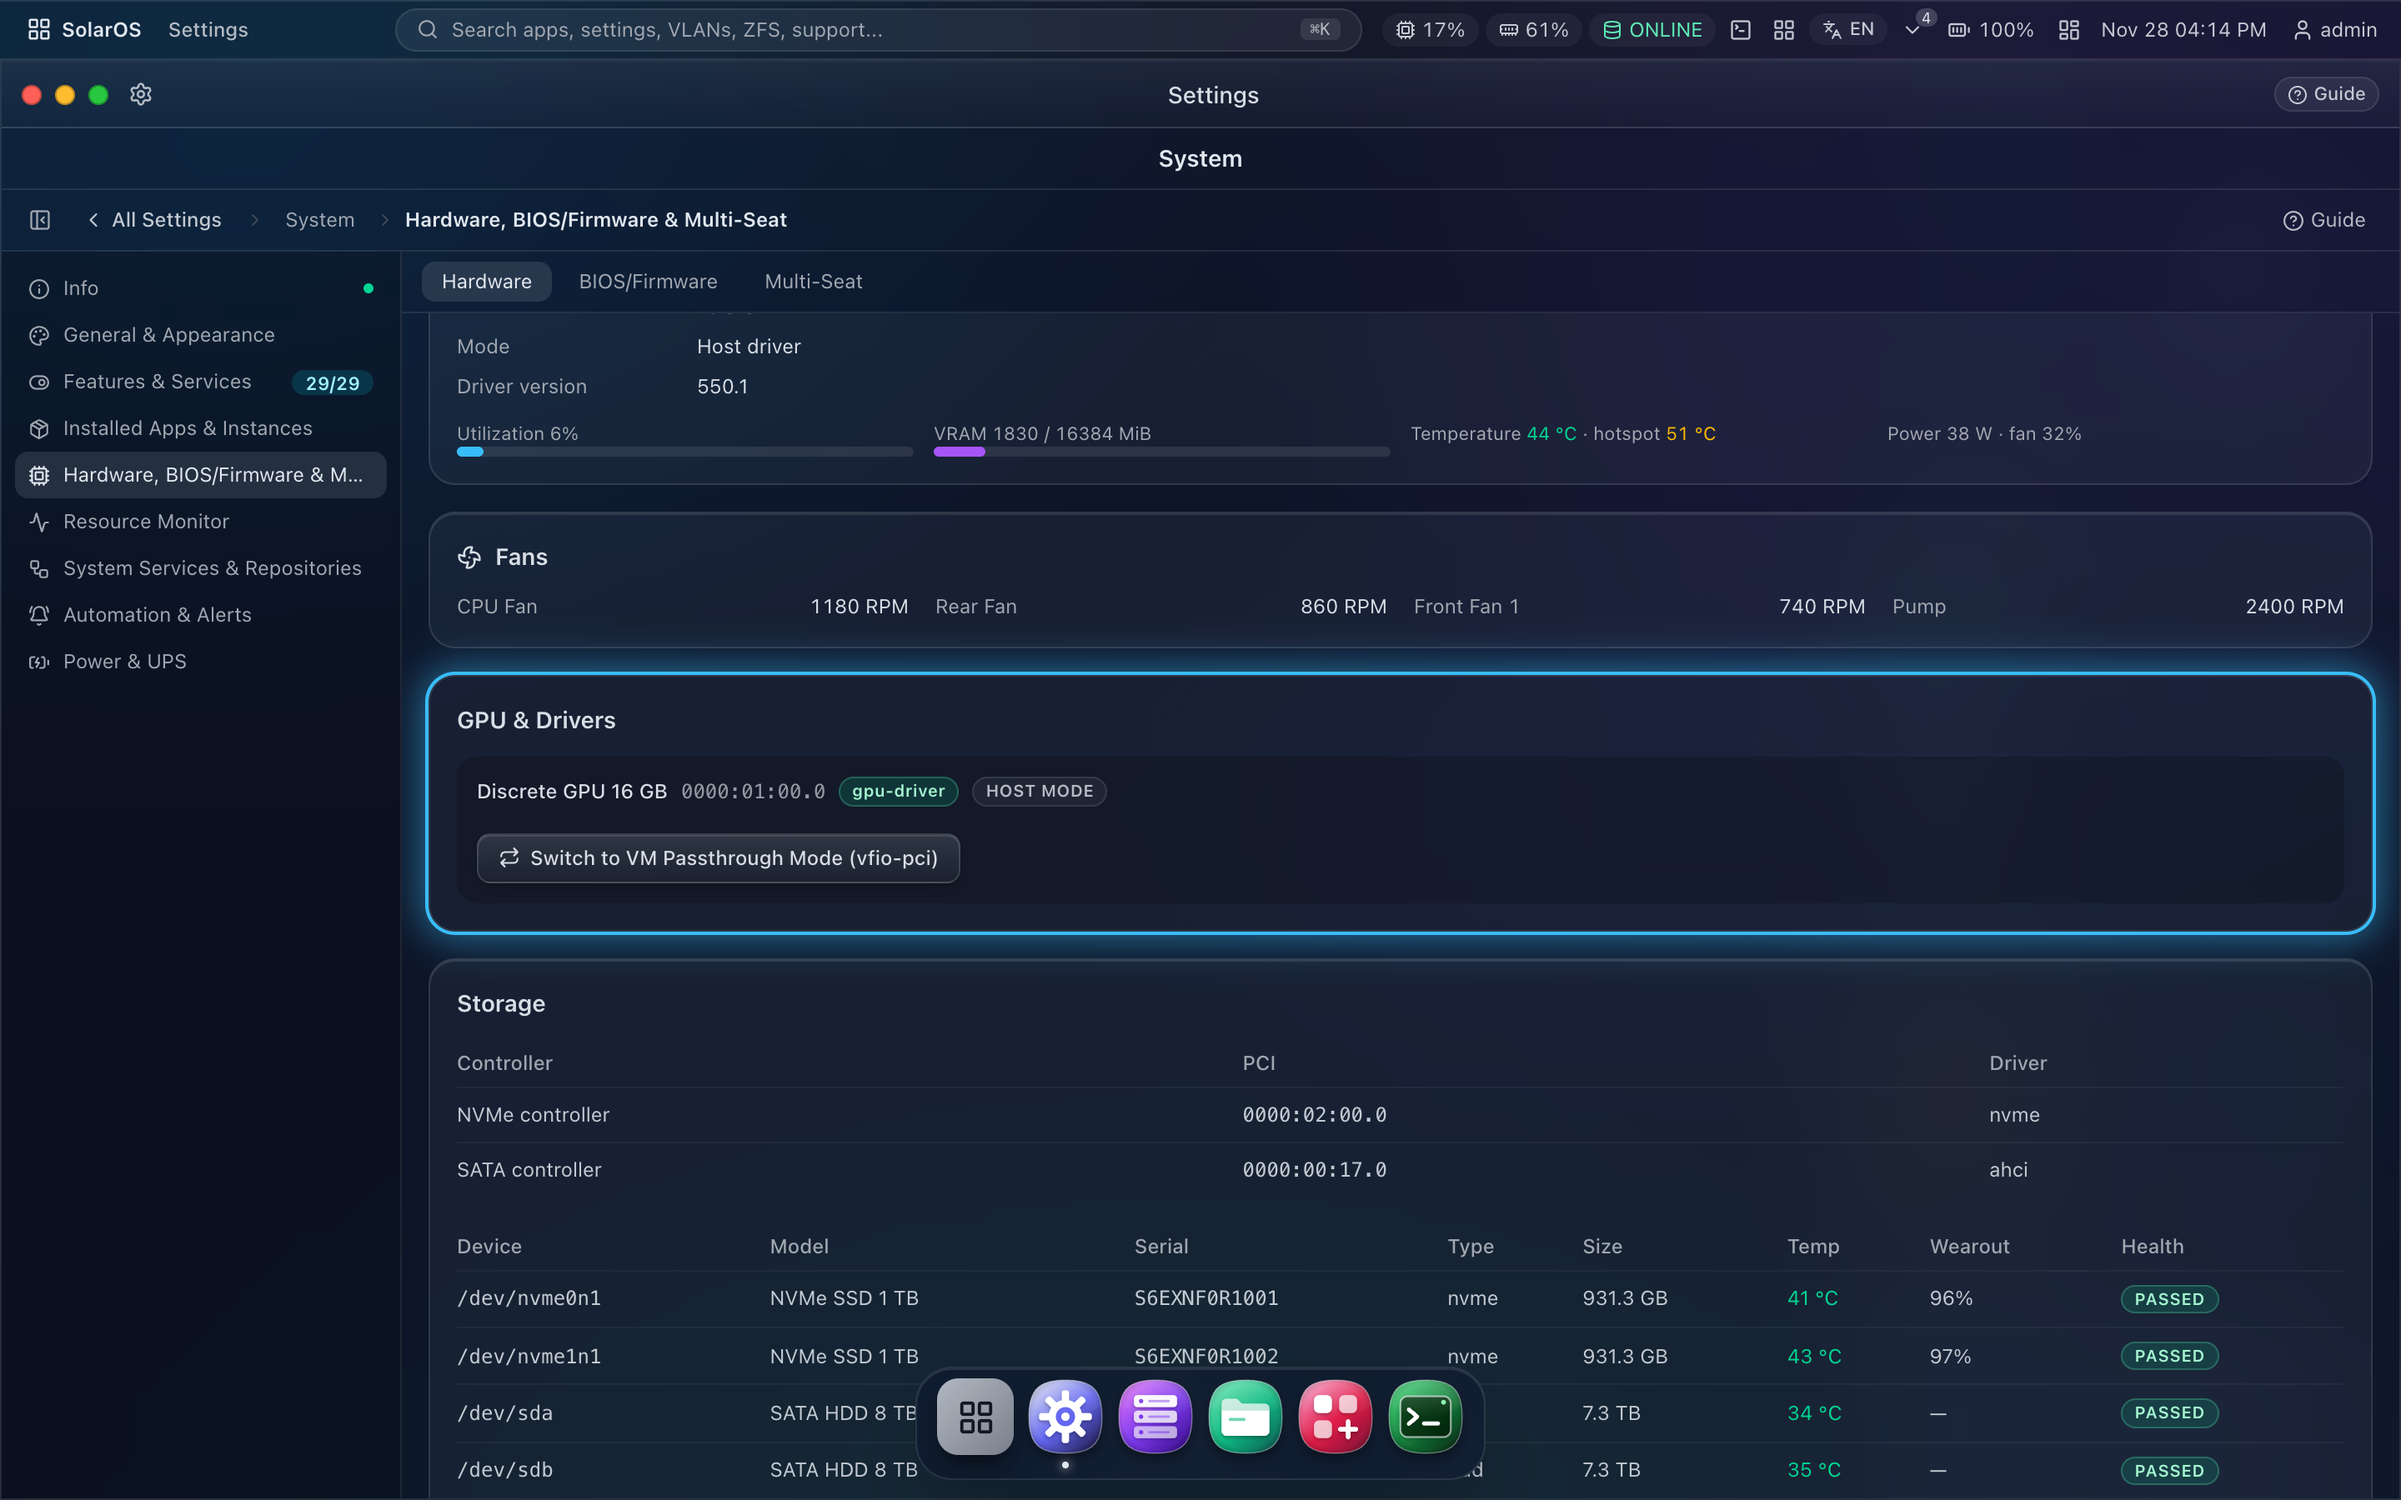
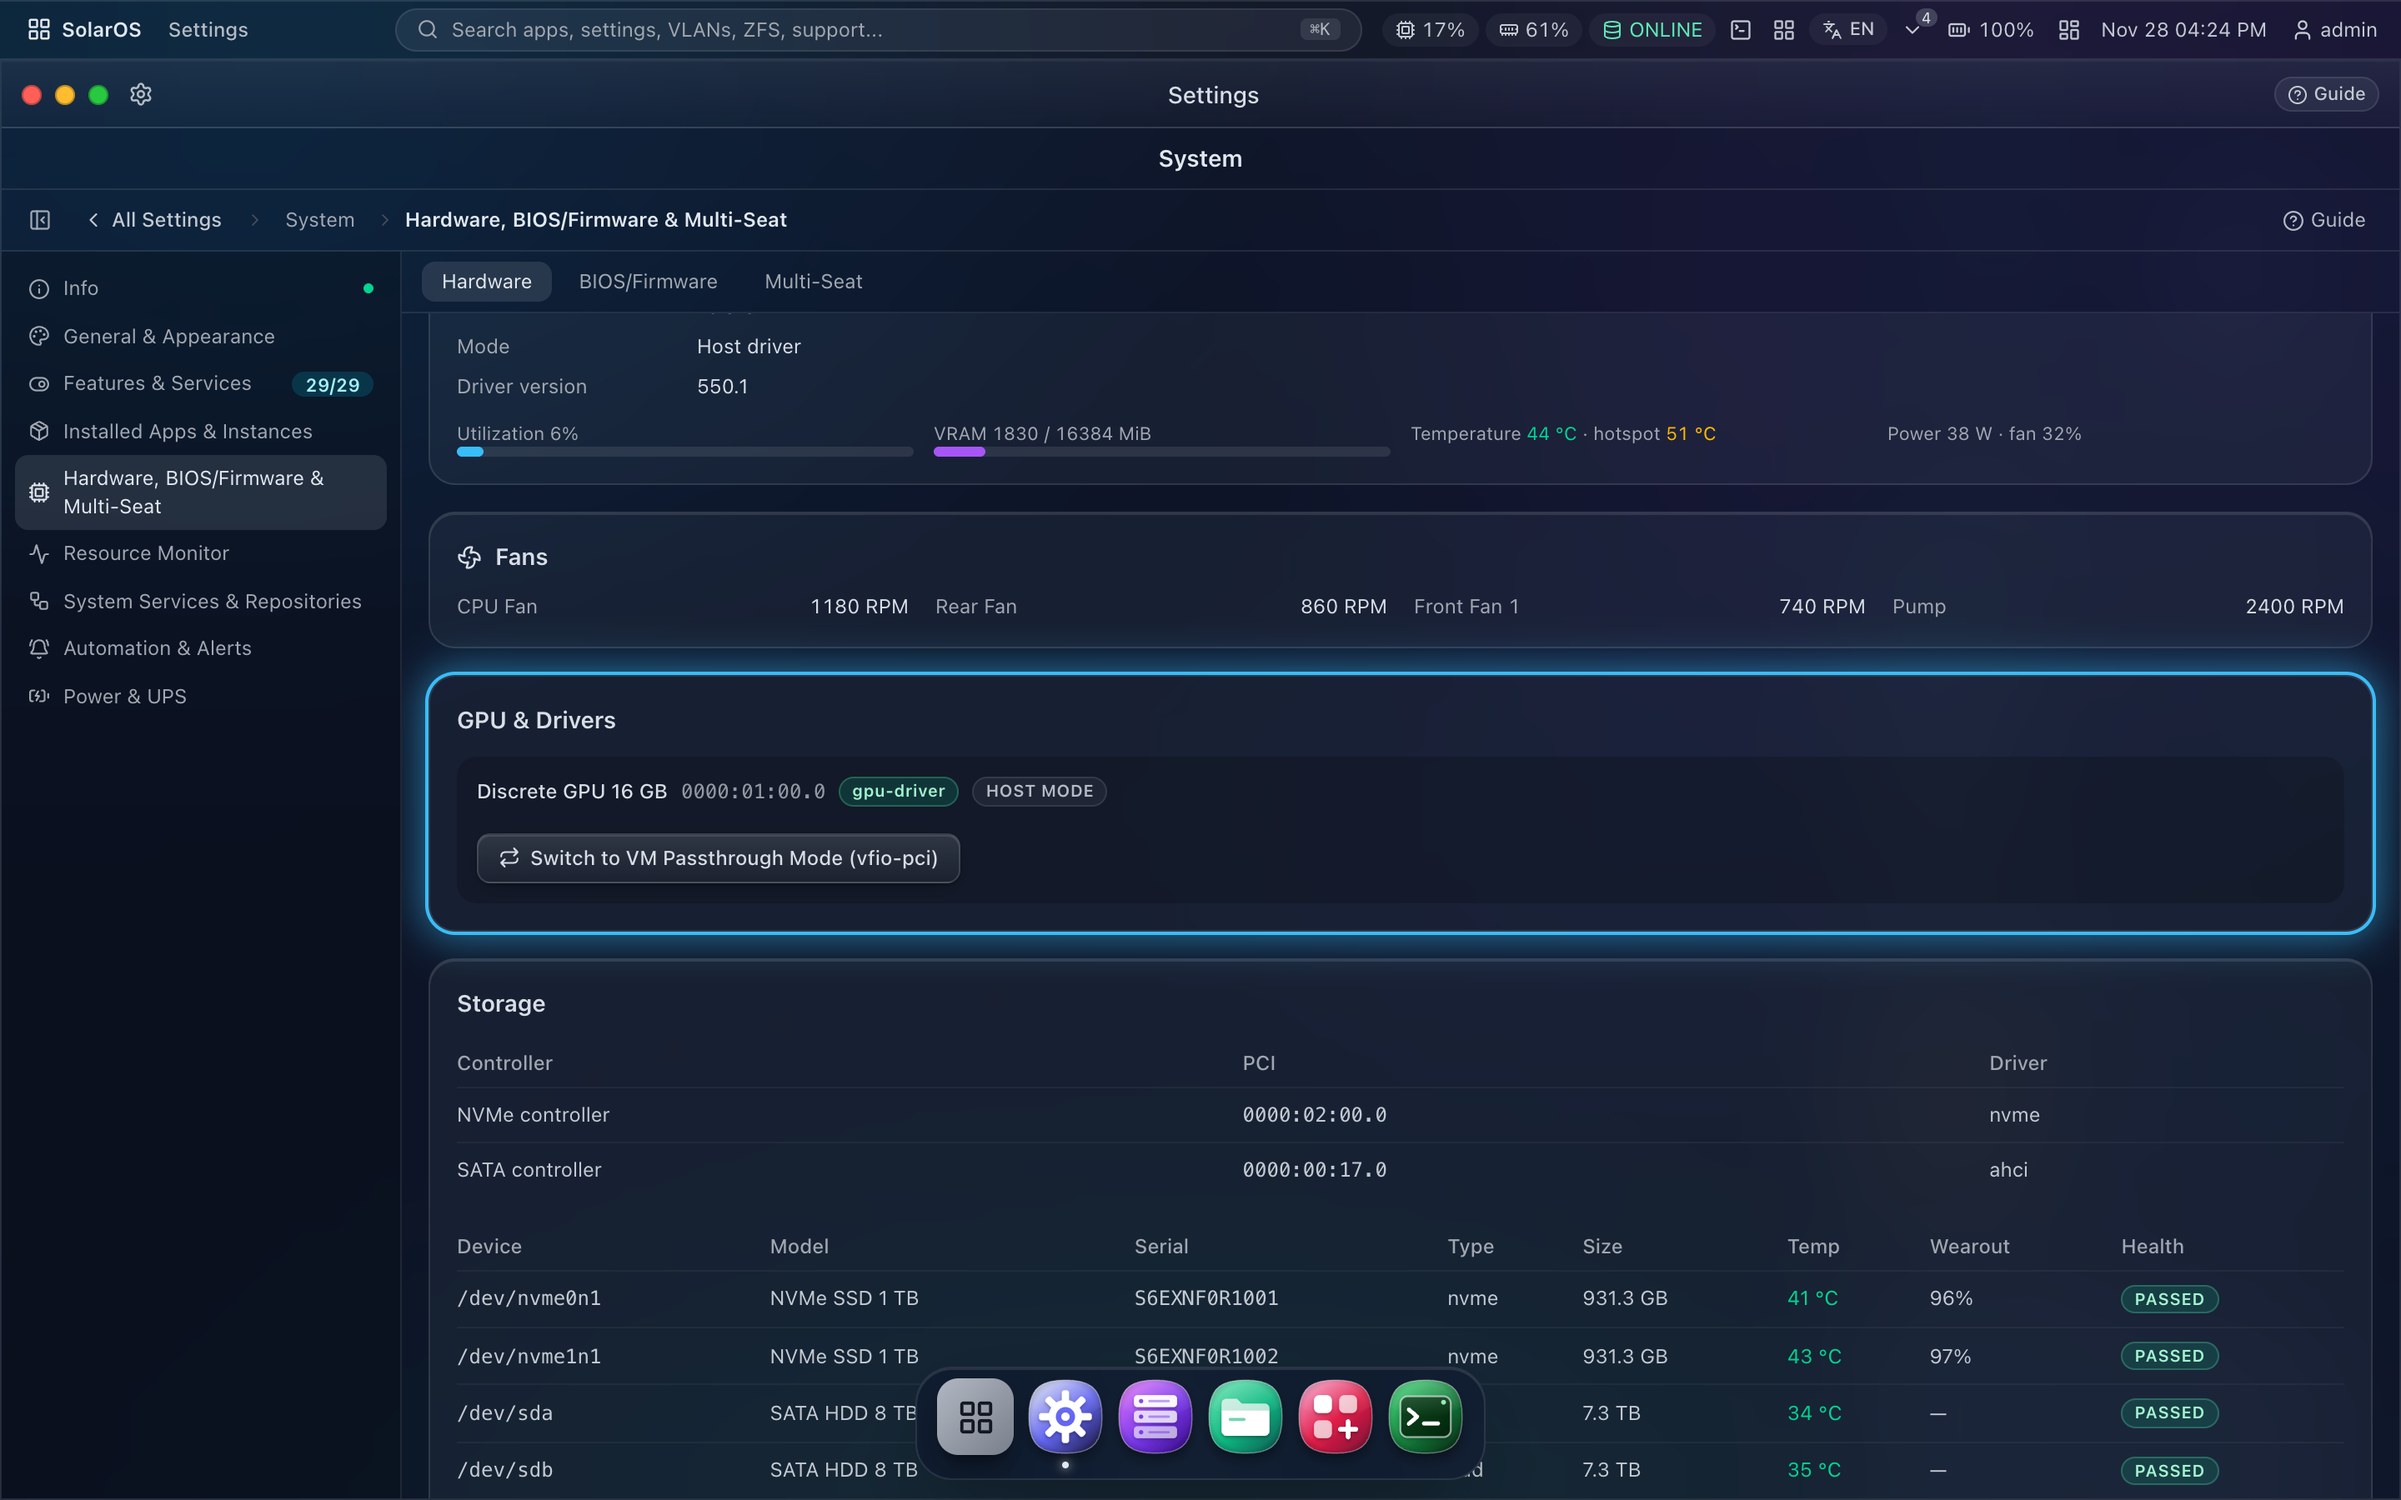
Release v2.27.1: wrap long Settings sidebar names instead of truncating

Changed region(s): [[0.0, 0.2178, 0.1562, 0.4667], [0.125, 0.2489, 0.1562, 0.28]]

diff --git a/frontend/src/apps/SettingsApp.tsx b/frontend/src/apps/SettingsApp.tsx
@@ -402,7 +402,7 @@ export default function SettingsApp() {
                     aria-current={id === module}
                     className={`flex w-full items-center gap-2 rounded-lg px-2 py-1.5 text-left text-xs transition ${id === module ? "bg-white/12 text-white" : "text-slate-400 hover:bg-white/5 hover:text-slate-200"}`}
                   >
-                    <Icon size={13} className="shrink-0" /> <span className="min-w-0 flex-1 truncate">{t(`set.mod.${id}`)}</span>
+                    <Icon size={13} className="shrink-0" /> <span className="min-w-0 flex-1 leading-snug">{t(`set.mod.${id}`)}</span>
                     {id === "features-services" && <FeatureCount compact />}
                     {dots[id] && <span className={`h-1.5 w-1.5 shrink-0 rounded-full ${dots[id]}`} aria-hidden />}
                   </button>

diff --git a/CHANGELOG.md b/CHANGELOG.md
@@ -1,5 +1,10 @@
 # Changelog
 
+## v2.27.1 - Full Settings sidebar names — 2026-11-28
+
+### Fixed
+- **Long names in the Settings sidebar wrap onto a second line** instead of being cut off, so *Hardware, BIOS/Firmware & Multi-Seat* is readable in full.
+
 ## v2.27.0 - Realtime hardware thermals & Hardware, BIOS/Firmware & Multi-Seat — 2026-11-28
 
 ### Added
